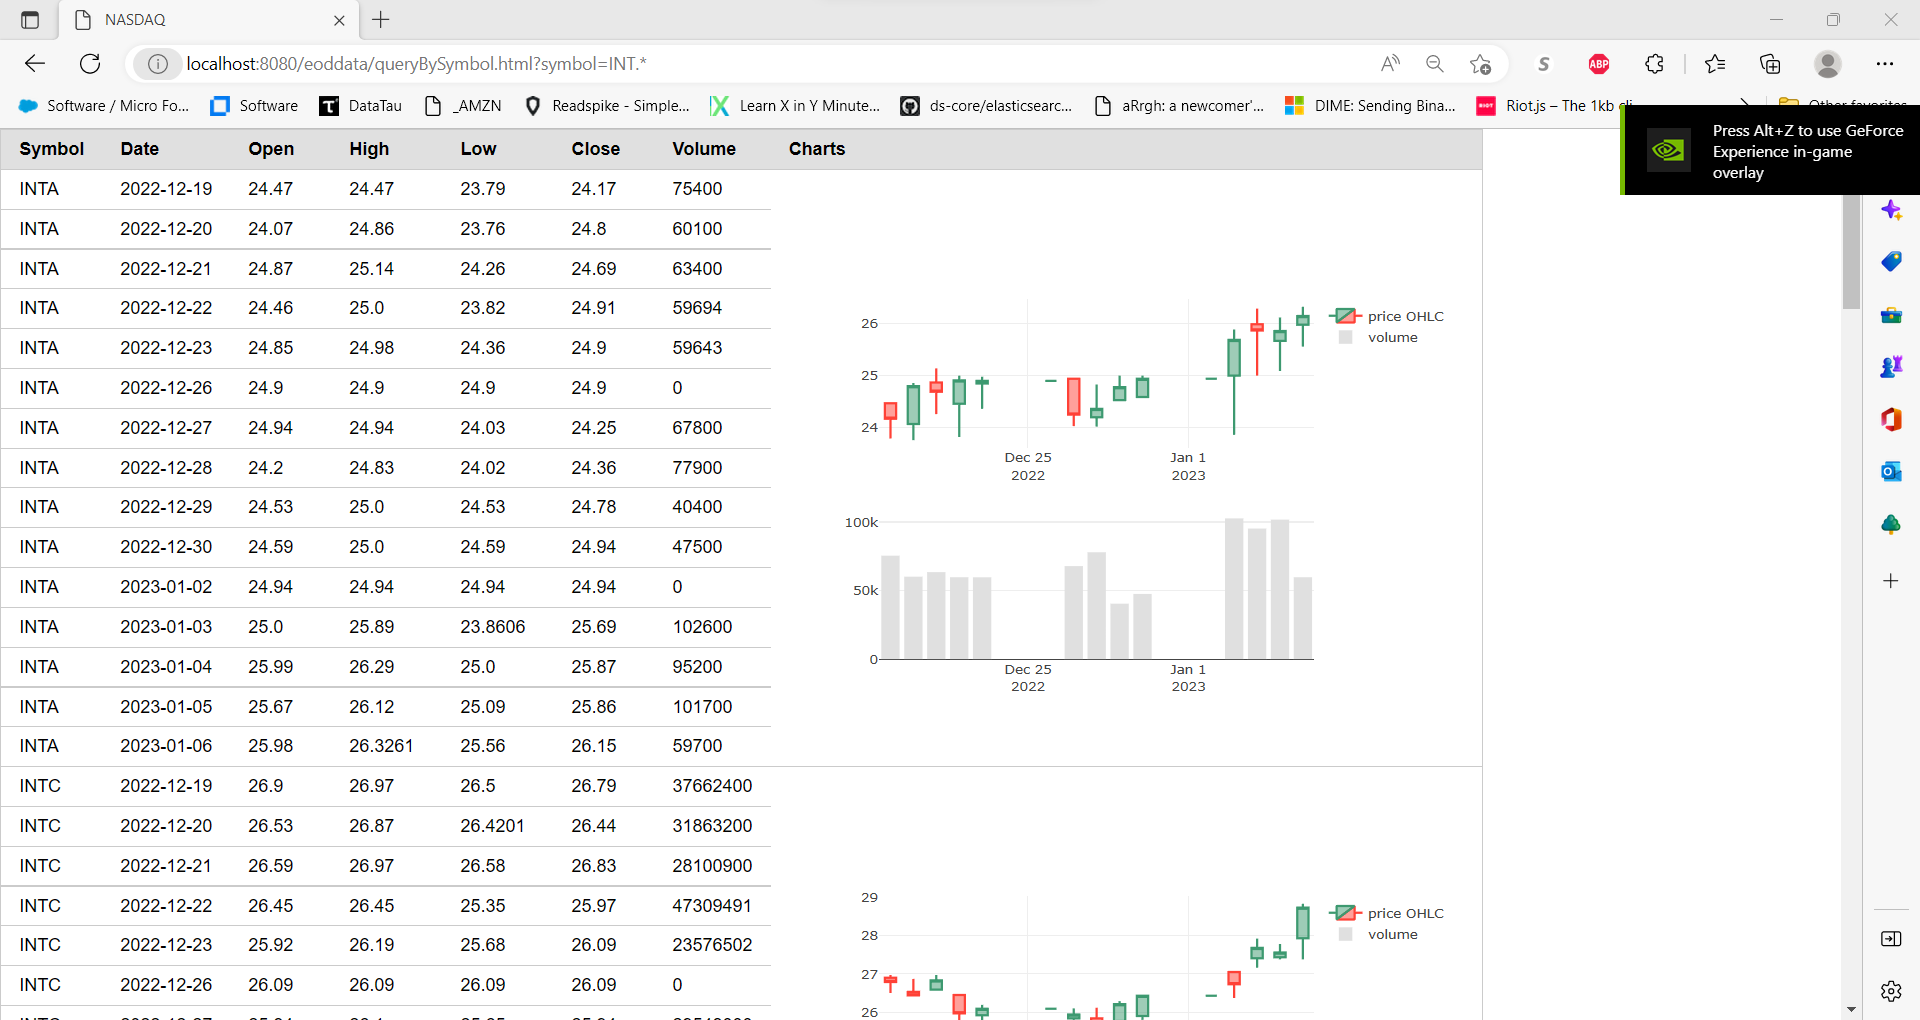
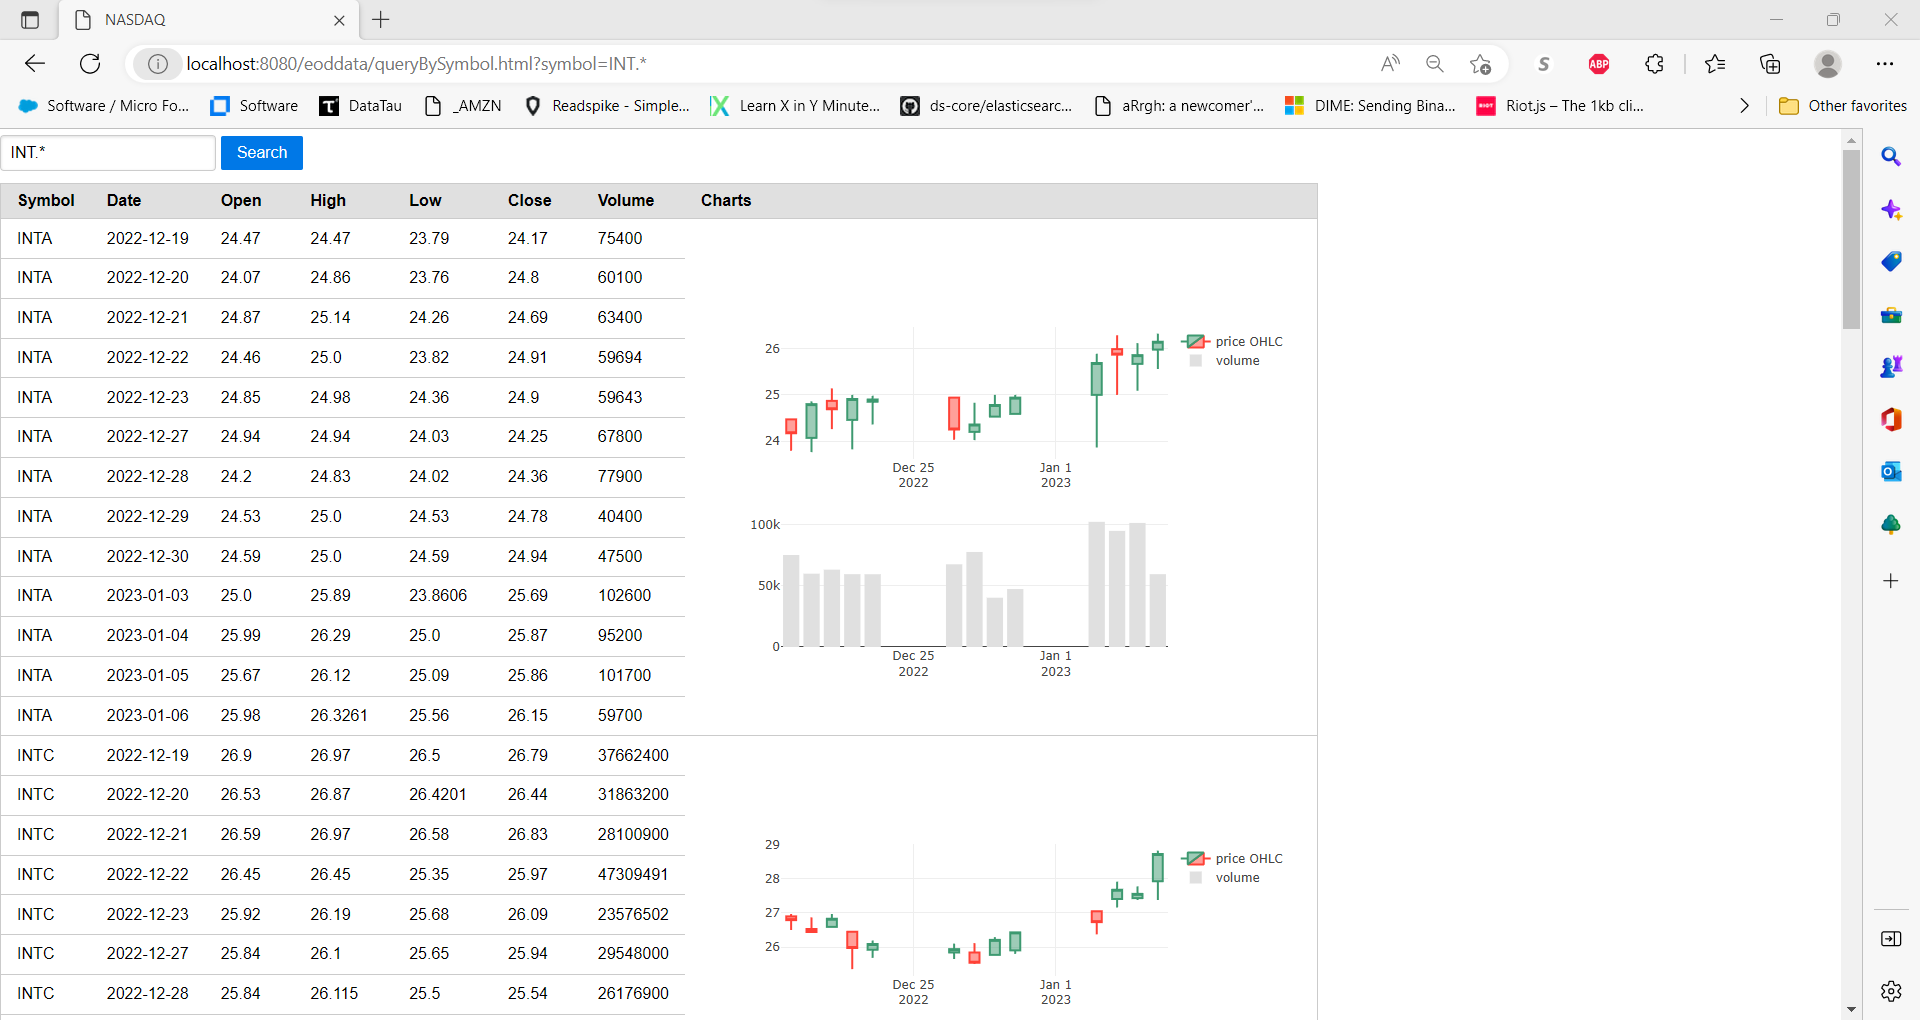
Added search input to HTML page

diff --git a/src/main/resources/views/queryBySymbol.html b/src/main/resources/views/queryBySymbol.html
@@ -10,6 +10,12 @@
 </head>
 
 <body>
+<form class="pure-form" action="queryBySymbol.html" method="get">
+    <fieldset>
+        <input type="text" placeholder="Symbol (like EBAY)" name="symbol" id="searchInput" />
+        <button type="submit" class="pure-button pure-button-primary">Search</button>
+    </fieldset>
+</form>
 <table class="pure-table pure-table-horizontal">
     <thead>
     <tr>
@@ -31,6 +37,15 @@
 </table>
 
 <script th:inline="javascript">
+
+    // maintain the last value in the searchInput
+    const params = new URL(location.href).searchParams;
+    const searchTerm = params.get("symbol");
+    document.getElementById("searchInput").value = searchTerm;
+
+    //
+    // make the charts
+    //
     let graphElement;
     let rawGraphSpec;
     let parsedGraphSpec;
